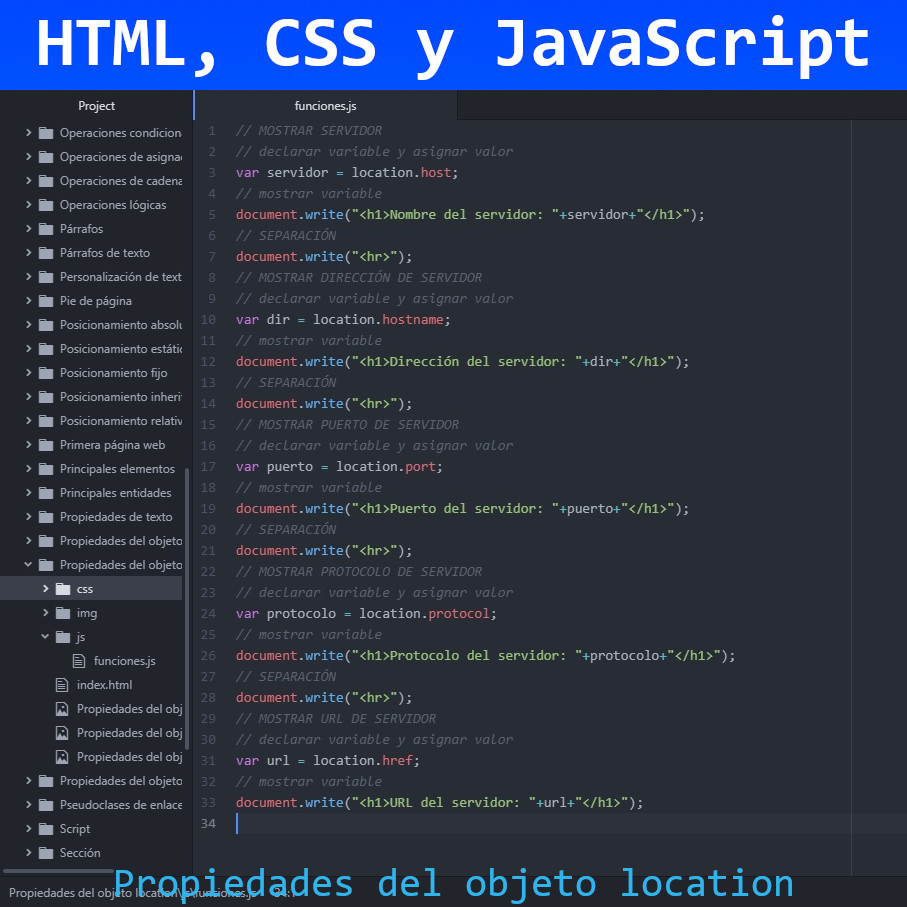
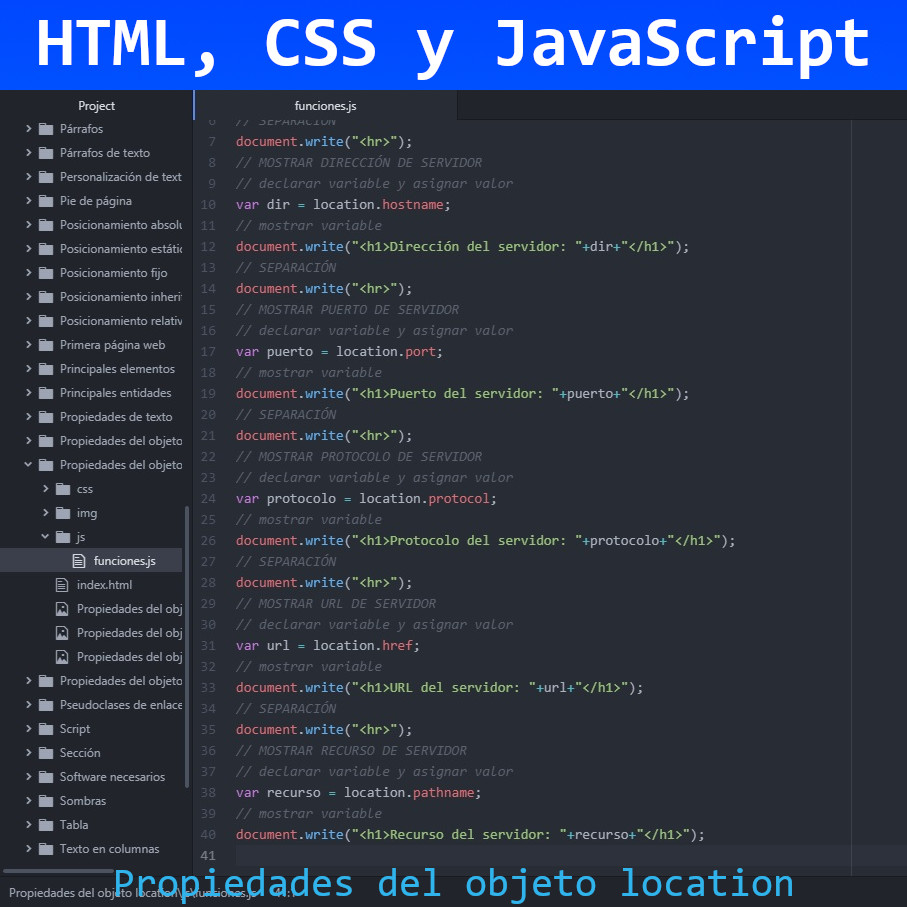
Propiedades del objeto location
Propiedades del objeto location en JavaScript

diff --git a/HTML, CSS y JavaScript/Propiedades del objeto location/js/funciones.js b/HTML, CSS y JavaScript/Propiedades del objeto location/js/funciones.js
@@ -31,3 +31,10 @@ document.write("<hr>");
 var url = location.href;
 // mostrar variable
 document.write("<h1>URL del servidor: "+url+"</h1>");
+// SEPARACIÓN
+document.write("<hr>");
+// MOSTRAR RECURSO DE SERVIDOR
+// declarar variable y asignar valor
+var recurso = location.pathname;
+// mostrar variable
+document.write("<h1>Recurso del servidor: "+recurso+"</h1>");
